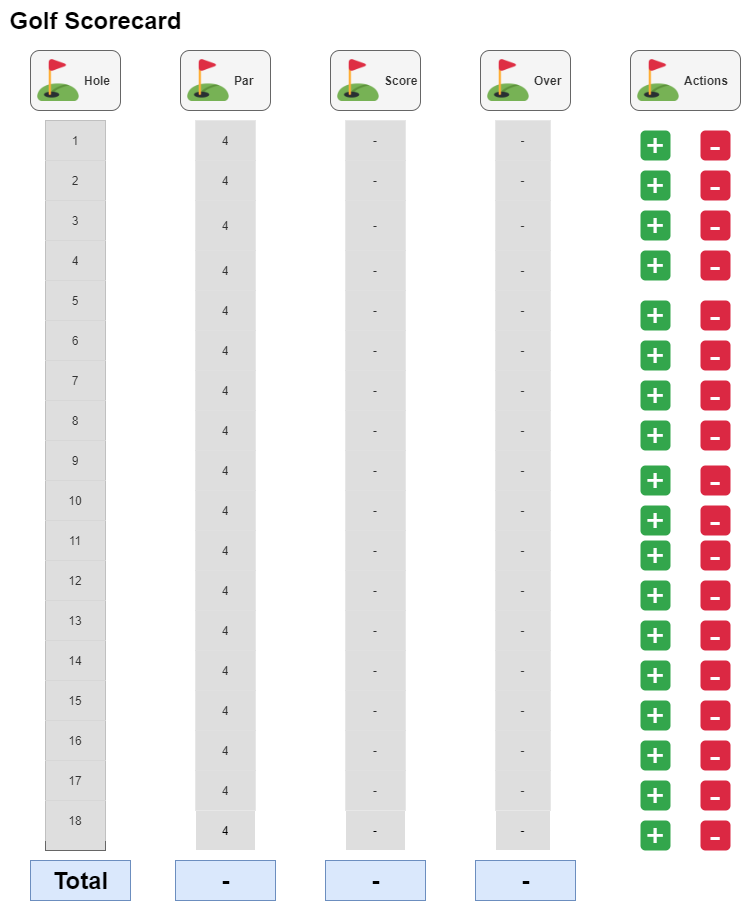
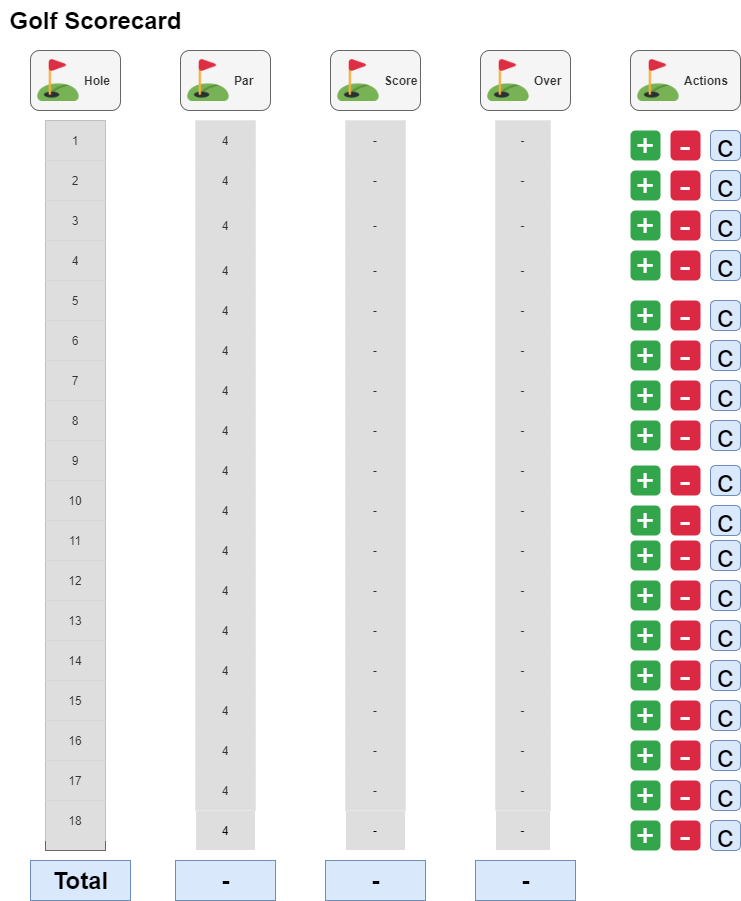
edit HTML

Changed region(s): [[0.8381, 0.1243, 1.0, 0.9634]]

diff --git a/assignment/assignment03/assignment03.html b/assignment/assignment03/assignment03.html
@@ -20,126 +20,126 @@
         <td>4</td>
         <td>-</td>
         <td>-</td>
-        <td><button class="btn btn-success">+</button> <button class="btn btn-danger">-</button><button class="btn btn-primary">C</button></td>
+        <td><button class="btn btn-success">+</button> <button class="btn btn-danger">-</button> <button class="btn btn-primary">C</button></td>
       </tr>
       <tr id="2">
         <td>2</td>
         <td>4</td>
         <td>-</td>
         <td>-</td>
-        <td><button class="btn btn-success">+</button> <button class="btn btn-danger">-</button><button class="btn btn-primary">C</button></td>
+        <td><button class="btn btn-success">+</button> <button class="btn btn-danger">-</button> <button class="btn btn-primary">C</button></td>
       </tr>
       <tr id="3">
         <td>3</td>
         <td>4</td>
         <td>-</td>
         <td>-</td>
-        <td><button class="btn btn-success">+</button> <button class="btn btn-danger">-</button><button class="btn btn-primary">C</button></td>
+        <td><button class="btn btn-success">+</button> <button class="btn btn-danger">-</button> <button class="btn btn-primary">C</button></td>
       </tr>
       <tr id="4">
         <td>4</td>
         <td>4</td>
         <td>-</td>
         <td>-</td>
-        <td><button class="btn btn-success">+</button> <button class="btn btn-danger">-</button><button class="btn btn-primary">C</button></td>
+        <td><button class="btn btn-success">+</button> <button class="btn btn-danger">-</button> <button class="btn btn-primary">C</button></td>
       </tr>
       <tr id="5">
         <td>5</td>
         <td>4</td>
         <td>-</td>
         <td>-</td>
-        <td><button class="btn btn-success">+</button> <button class="btn btn-danger">-</button><button class="btn btn-primary">C</button></td>
+        <td><button class="btn btn-success">+</button> <button class="btn btn-danger">-</button> <button class="btn btn-primary">C</button></td>
       </tr>
       <tr id="6">
         <td>6</td>
         <td>4</td>
         <td>-</td>
         <td>-</td>
-        <td><button class="btn btn-success">+</button> <button class="btn btn-danger">-</button><button class="btn btn-primary">C</button></td>
+        <td><button class="btn btn-success">+</button> <button class="btn btn-danger">-</button> <button class="btn btn-primary">C</button></td>
       </tr>
       <tr id="7">
         <td>7</td>
         <td>4</td>
         <td>-</td>
         <td>-</td>
-        <td><button class="btn btn-success">+</button> <button class="btn btn-danger">-</button><button class="btn btn-primary">C</button></td>
+        <td><button class="btn btn-success">+</button> <button class="btn btn-danger">-</button> <button class="btn btn-primary">C</button></td>
       </tr>
       <tr id="8">
         <td>8</td>
         <td>4</td>
         <td>-</td>
         <td>-</td>
-        <td><button class="btn btn-success">+</button> <button class="btn btn-danger">-</button><button class="btn btn-primary">C</button></td>
+        <td><button class="btn btn-success">+</button> <button class="btn btn-danger">-</button> <button class="btn btn-primary">C</button></td>
       </tr>
       <tr id="9">
         <td>9</td>
         <td>4</td>
         <td>-</td>
         <td>-</td>
-        <td><button class="btn btn-success">+</button> <button class="btn btn-danger">-</button><button class="btn btn-primary">C</button></td>
+        <td><button class="btn btn-success">+</button> <button class="btn btn-danger">-</button> <button class="btn btn-primary">C</button></td>
       </tr>
       <tr id="10">
         <td>10</td>
         <td>4</td>
         <td>-</td>
         <td>-</td>
-        <td><button class="btn btn-success">+</button> <button class="btn btn-danger">-</button><button class="btn btn-primary">C</button></td>
+        <td><button class="btn btn-success">+</button> <button class="btn btn-danger">-</button> <button class="btn btn-primary">C</button></td>
       </tr>
       <tr id="11">
         <td>11</td>
         <td>4</td>
         <td>-</td>
         <td>-</td>
-        <td><button class="btn btn-success">+</button> <button class="btn btn-danger">-</button><button class="btn btn-clear">C</button></td>
+        <td><button class="btn btn-success">+</button> <button class="btn btn-danger">-</button> <button class="btn btn-primary">C</button></td>
       </tr>
       <tr id="12">
         <td>12</td>
         <td>4</td>
         <td>-</td>
         <td>-</td>
-        <td><button class="btn btn-success">+</button> <button class="btn btn-danger">-</button><button class="btn btn-primary">C</button></td>
+        <td><button class="btn btn-success">+</button> <button class="btn btn-danger">-</button> <button class="btn btn-primary">C</button></td>
       </tr>
       <tr id="13">
         <td>13</td>
         <td>4</td>
         <td>-</td>
         <td>-</td>
-        <td><button class="btn btn-success">+</button> <button class="btn btn-danger">-</button><button class="btn btn-primary">C</button></td>
+        <td><button class="btn btn-success">+</button> <button class="btn btn-danger">-</button> <button class="btn btn-primary">C</button></td>
       </tr>
       <tr id="14">
         <td>14</td>
         <td>4</td>
         <td>-</td>
         <td>-</td>
-        <td><button class="btn btn-success">+</button> <button class="btn btn-danger">-</button><button class="btn btn-primary">C</button></td>
+        <td><button class="btn btn-success">+</button> <button class="btn btn-danger">-</button> <button class="btn btn-primary">C</button></td>
       </tr>
       <tr id="15">
         <td>15</td>
         <td>4</td>
         <td>-</td>
         <td>-</td>
-        <td><button class="btn btn-success">+</button> <button class="btn btn-danger">-</button><button class="btn btn-primary">C</button></td>
+        <td><button class="btn btn-success">+</button> <button class="btn btn-danger">-</button> <button class="btn btn-primary">C</button></td>
       </tr>
       <tr id="16">
         <td>16</td>
         <td>4</td>
         <td>-</td>
         <td>-</td>
-        <td><button class="btn btn-success">+</button> <button class="btn btn-danger">-</button><button class="btn btn-primary">C</button></td>
+        <td><button class="btn btn-success">+</button> <button class="btn btn-danger">-</button> <button class="btn btn-primary">C</button></td>
       </tr>
       <tr id="17">
         <td>17</td>
         <td>4</td>
         <td>-</td>
         <td>-</td>
-        <td><button class="btn btn-success">+</button> <button class="btn btn-danger">-</button><button class="btn btn-primary">C</button></td>
+        <td><button class="btn btn-success">+</button> <button class="btn btn-danger">-</button> <button class="btn btn-primary">C</button></td>
       </tr>
       <tr id="18">
         <td>18</td>
         <td>4</td>
         <td>-</td>
         <td>-</td>
-        <td><button class="btn btn-success">+</button> <button class="btn btn-danger">-</button><button class="btn btn-primary">C</button></td>
+        <td><button class="btn btn-success">+</button> <button class="btn btn-danger">-</button> <button class="btn btn-primary">C</button></td>
       </tr>
       <tr id="totals">
         <td id="allTotal">TOTALS</td>
